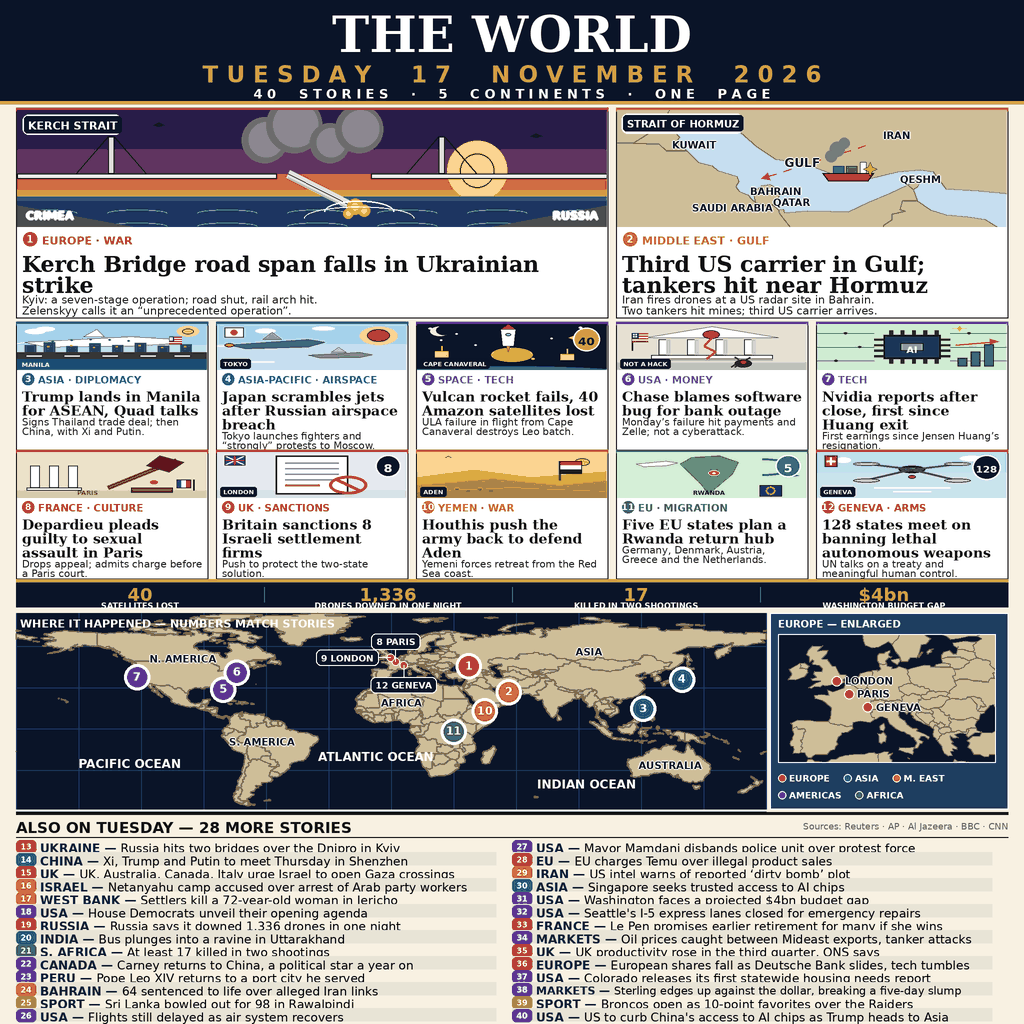
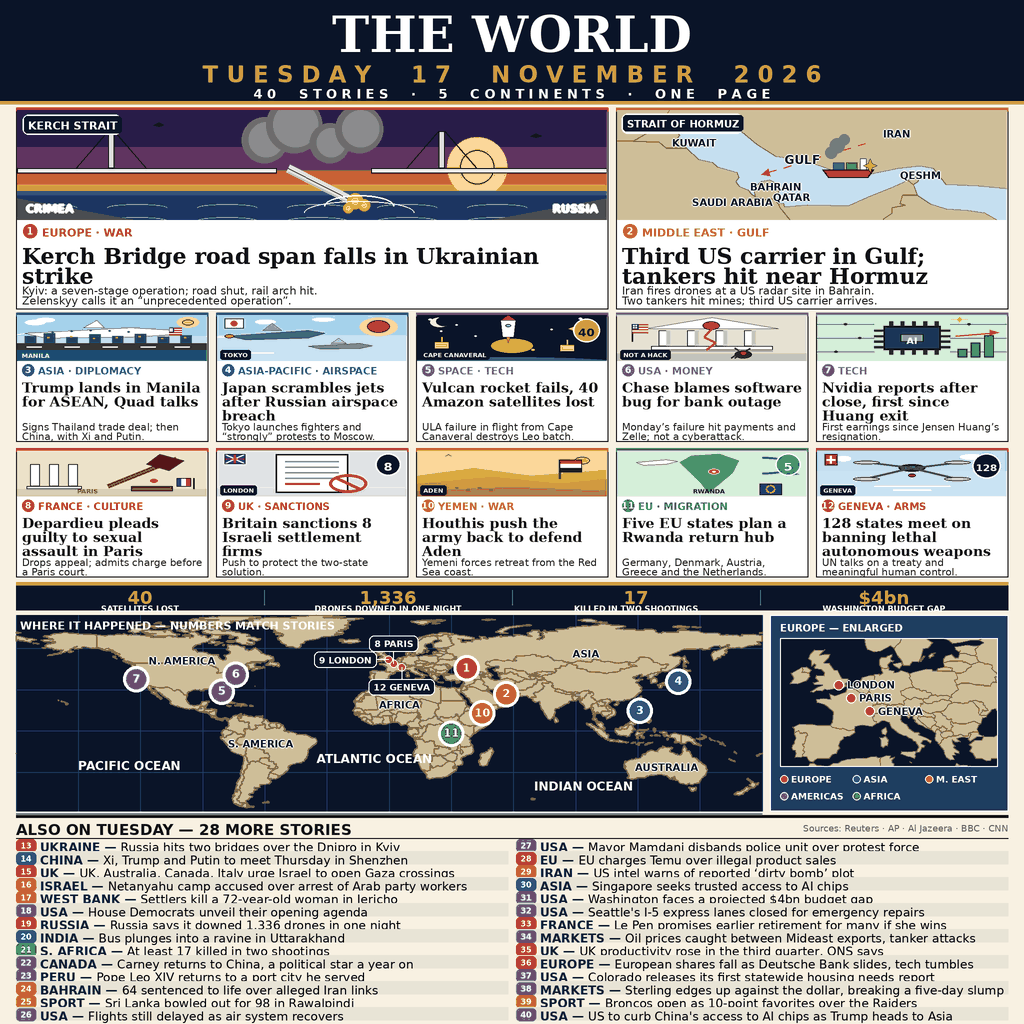
Round 10: layout geometry — one strict grid (M32/G16/gaps 10), ALSO edges aligned, pinned decks (191,244B)

diff --git a/README.md b/README.md
@@ -4,7 +4,7 @@
 [![rank](https://make.fun/badge/news-image-20261117/Fpeazy/news-image-20261117/rank.svg)](https://make.fun/bounty/news-image-20261117/leaderboard?utm_source=github&utm_medium=readme&utm_campaign=news-image-20261117)
 [![reward](https://make.fun/badge/news-image-20261117/Fpeazy/news-image-20261117/reward.svg)](https://make.fun/bounty/news-image-20261117?utm_source=github&utm_medium=readme&utm_campaign=news-image-20261117)
 
-**THE WORLD** — a programmatic newspaper front page that sums up Tuesday 17 November 2026 in one image: **40 stories, 5 continents, one page**. Round 9 (this version, the map + layout-rethink round): two LARGE hero cards — the Kerch Bridge lead in a dusk scene with a real gap where the road span fell, and the Strait of Hormuz with a Gulf mini-map illustration (country labels, tanker, dashed drone path to Bahrain) — plus ten smaller illustrated cards in a 5×2 grid, each with its own layered scene, small correct flags, and in-art data numbers only where verified (40 satellites, 5 EU states, 8 firms, 128 states), a bold 22 pt hero headline and 14 pt small-card headlines with two-line verified decks, followed by a rebuilt map band — a real world map, 196 px tall at 1024 (2.3× the Round 8 ribbon), drawn with a near-natural aspect so the continents read instead of lying flat, all twelve pictured stories pinned at their true locations as large numbered beacons with white halos (the crowded London/Paris/Geneva cluster uses small true-position dots with numbered name pills), continent and ocean labels, and a full Europe side panel with a large enlarged inset (London, Paris and Geneva labelled) and the region legend — a "THE DAY IN NUMBERS" strip (40 satellites lost · 1,336 drones downed in one night · 17 killed in two shootings · $4bn Washington budget gap), and 28 more stories below the fold, numbered 13–40 with region-coloured chips at 12 pt. The whole page is drawn at 2048×2048 and LANCZOS-downscaled to 1024 for HD text and coastlines; the map uses higher-detail coastline data (10,046 points), tan land on a deep-navy band, and a saturated disciplined region palette — deep navy masthead with white serif title and gold date, one dominant region colour per card. At 300 px the page now reads as date + two big hero blocks + a real map, the same first-glance structure as the leaderboard's top entries.
+**THE WORLD** — a programmatic newspaper front page that sums up Tuesday 17 November 2026 in one image: **40 stories, 5 continents, one page**. Round 10 (this version, the layout-geometry round — content identical to Round 9, geometry rebuilt on one strict grid: one 16 px gutter everywhere, equal columns and rows, all section edges aligned, deck text pinned to fixed baselines): two LARGE hero cards — the Kerch Bridge lead in a dusk scene with a real gap where the road span fell, and the Strait of Hormuz with a Gulf mini-map illustration (country labels, tanker, dashed drone path to Bahrain) — plus ten smaller illustrated cards in a 5×2 grid, each with its own layered scene, small correct flags, and in-art data numbers only where verified (40 satellites, 5 EU states, 8 firms, 128 states), a bold 22 pt hero headline and 14 pt small-card headlines with two-line verified decks, followed by a rebuilt map band — a real world map, 196 px tall at 1024 (2.3× the Round 8 ribbon), drawn with a near-natural aspect so the continents read instead of lying flat, all twelve pictured stories pinned at their true locations as large numbered beacons with white halos (the crowded London/Paris/Geneva cluster uses small true-position dots with numbered name pills), continent and ocean labels, and a full Europe side panel with a large enlarged inset (London, Paris and Geneva labelled) and the region legend — a "THE DAY IN NUMBERS" strip (40 satellites lost · 1,336 drones downed in one night · 17 killed in two shootings · $4bn Washington budget gap), and 28 more stories below the fold, numbered 13–40 with region-coloured chips at 12 pt. The whole page is drawn at 2048×2048 and LANCZOS-downscaled to 1024 for HD text and coastlines; the map uses higher-detail coastline data (10,046 points), tan land on a deep-navy band, and a saturated disciplined region palette — deep navy masthead with white serif title and gold date, one dominant region colour per card. At 300 px the page now reads as date + two big hero blocks + a real map, the same first-glance structure as the leaderboard's top entries.
 
 ## The day in twelve pictures
 
